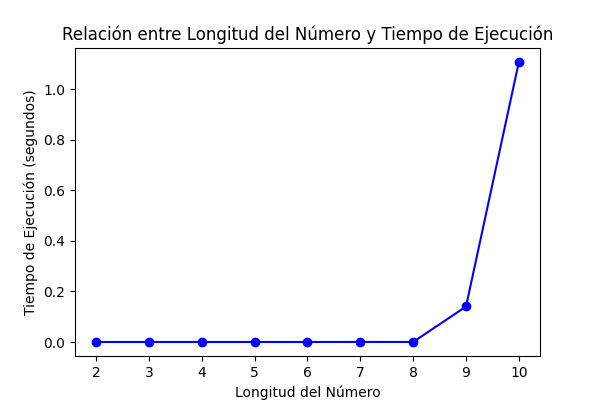
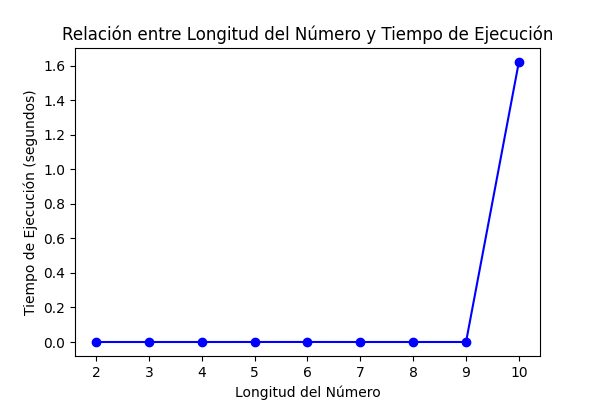
CSV file saving added

diff --git a/src/gcd/test.py b/src/gcd/test.py
@@ -5,6 +5,8 @@ import gcdlib
 from time import perf_counter
 import random
 import matplotlib.pyplot as plt
+from statistics import mean
+import csv
 
 #print(gcdlib.gcd_factorize(24, 36))
 
@@ -20,12 +22,20 @@ def calc_performance():
 
 
     while maxN < 10000000000:
-        inicio_tiempo = perf_counter()
-        resultado_actual = gcdlib.gcd_factorize(a, b)
-        fin_tiempo = perf_counter()
+
+        counter = 0
+        avgTime = []
+
+        #For it length of number calculates it 10 times and get the mean value for calculation time
+        while counter <= 9:
+            inicio_tiempo = perf_counter()
+            resultado_actual = gcdlib.gcd_factorize(a, b)
+            fin_tiempo = perf_counter()
+            avgTime.append(fin_tiempo - inicio_tiempo)
+            counter+=1
 
         numeros.append(len(str(maxN)))
-        tiempos.append(fin_tiempo - inicio_tiempo)
+        tiempos.append(mean(avgTime))
 
         print(f"Iteración: MCD({a}, {b}) = {resultado_actual}")
         print(f"Tiempo de ejecución: {fin_tiempo - inicio_tiempo} segundos\n")
@@ -39,12 +49,12 @@ def calc_performance():
     return numeros, tiempos
 
 
-
+#The data obtained for time consumption to calculate number of different number of digits
 def plot_performance(numeros, tiempos):
     
     plt.figure(figsize=(6, 4))
 
-    # Crear un gráfico de dispersión
+    # Crear gráfico
     plt.plot(numeros, tiempos, marker='o', color='blue', linestyle='-')
     plt.title('Relación entre Longitud del Número y Tiempo de Ejecución')
     plt.xlabel('Longitud del Número')
@@ -55,12 +65,24 @@ def plot_performance(numeros, tiempos):
 
 
 
+def saveCSV(numbers, times):
+
+    data = zip(numbers, times)
+
+    # Write to CSV file
+    with open('output.csv', 'w', newline='') as csvfile:
+        csv_writer = csv.writer(csvfile)
+        csv_writer.writerow(['Digits', 'Time'])  
+        csv_writer.writerows(data)  
+
+
 
 perf_results, perf_times = calc_performance()
 
-
-# Crear gráfico de dispersión
+# Función para generar el grafico a aprtir de los datos calculados
 plot_performance(perf_results, perf_times)
+
+saveCSV(perf_results, perf_times)
 
 
 print("Resultados:", perf_results)
